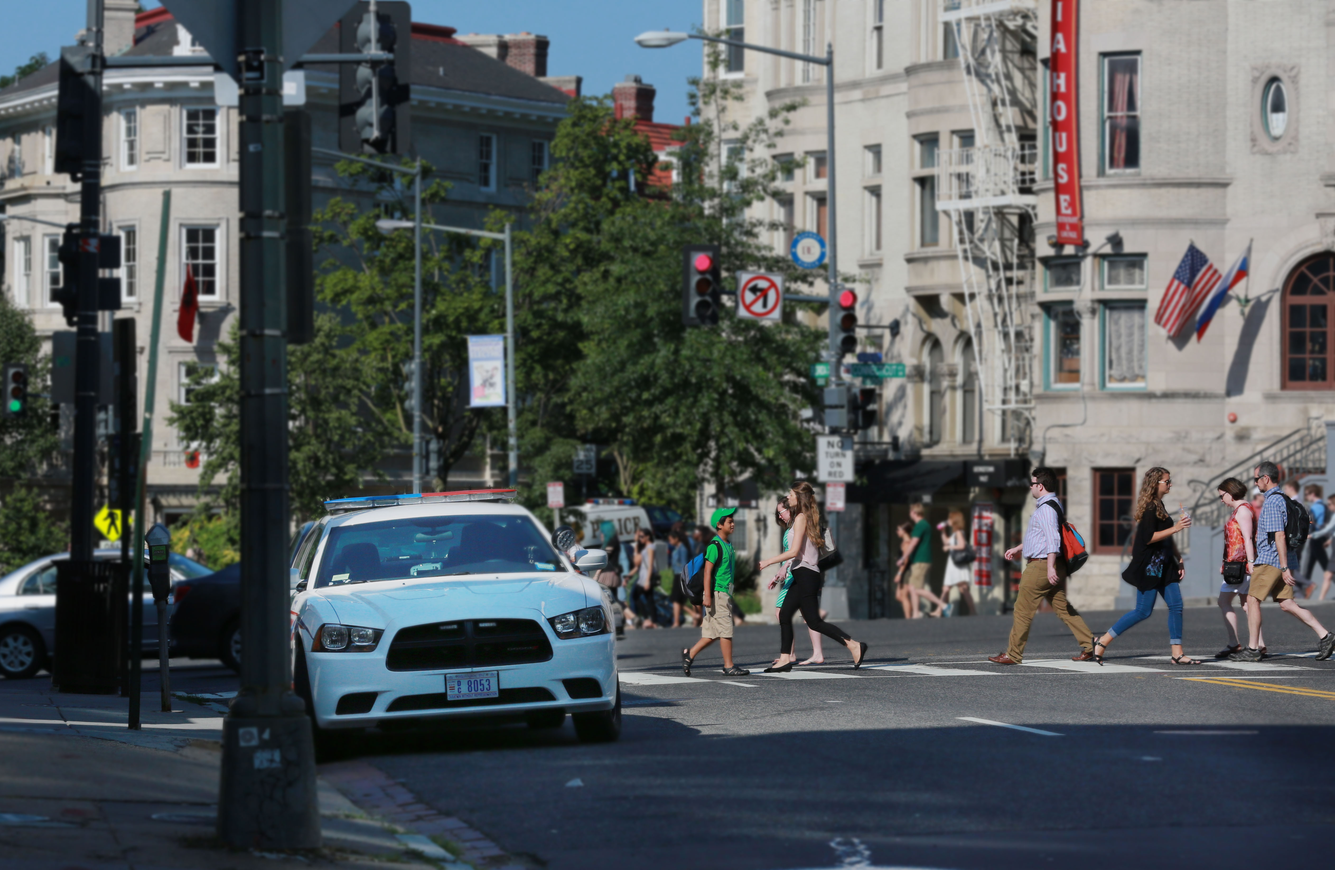
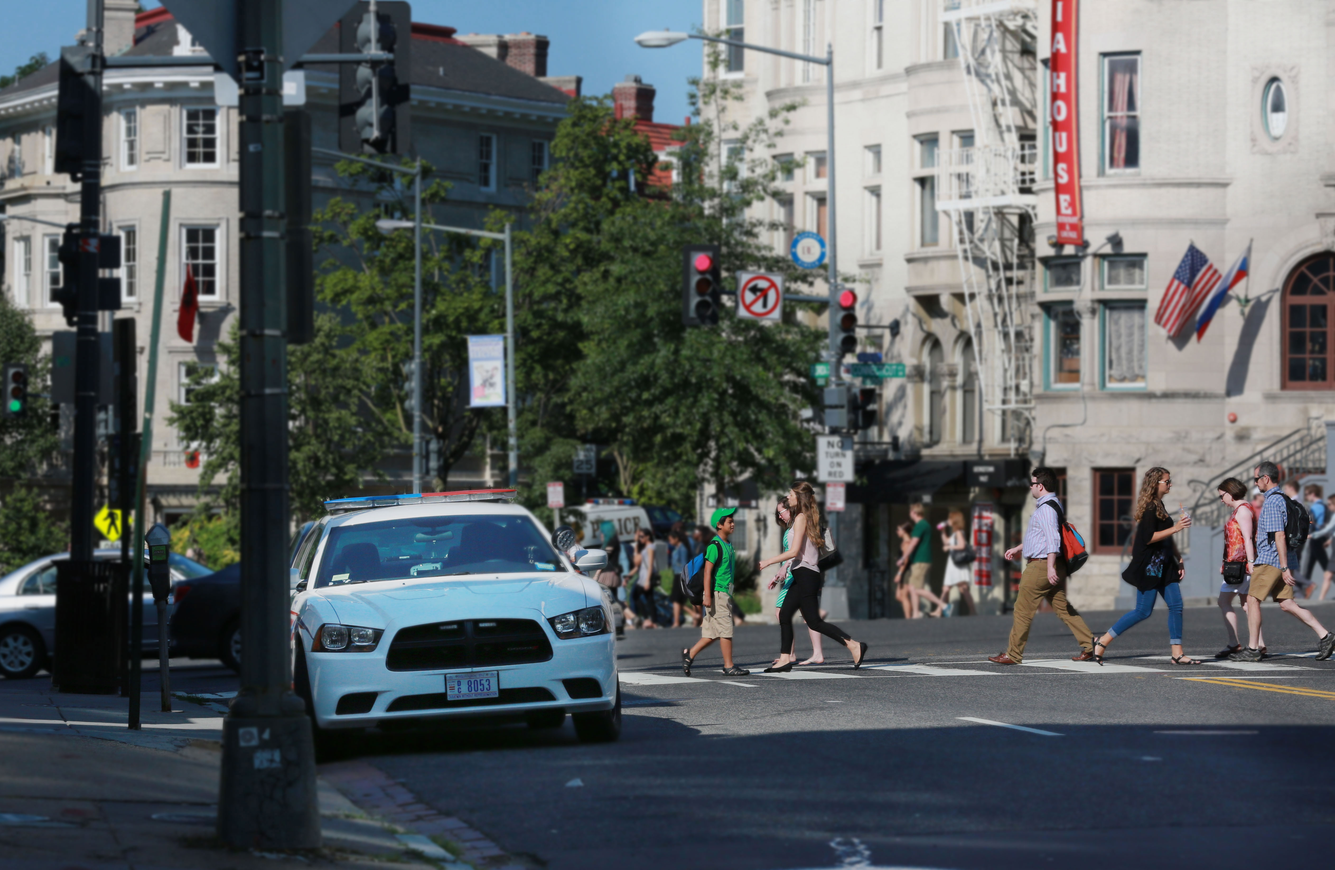
adjusted cover pics, update arrow jquery

Changed region(s): [[0.5592, 0.0, 1.0, 0.3125]]

diff --git a/index.html b/index.html
@@ -155,7 +155,9 @@
                             <h1>Public Safety</h1>
                             <p class="lead">Violent crime has fallen dramatically both nationwide and in DC over the past 20 years. DC’s homicide rate has plunged, taking the city far from its days as the nation’s “murder capital.” And, despite some ups and downs, aggravated assaults and robberies—two major categories of violent crime—are also on the decline.</p>
                             <p class="lead">However, these improvements have been uneven across the city. Stubborn pockets of violent crime remain unchanged in some neighborhoods, particularly in Northeast and Southeast DC. Tackling this persistent violent crime will require a more holistic public safety approach—one that goes beyond policing to include social services and that <a href="http://www.urban.org/research/publication/creating-partners-public-safety" target="_blank">emphasizes prevention</a> instead of reaction. </p>
-                            <a id="startbtn" data-target="#myCarousel" data-slide-to="1"><button type="button" class="btn btn-start">Start exploring</button></a>
+                            <a id="startbtn" data-target="#myCarousel" data-slide-to="1">
+                                <button type="button" class="btn btn-start">Start exploring</button>
+                            </a>
                         </div>
                     </div>
                 </div>
@@ -406,7 +408,7 @@
                                 <p class="credits">Research by Elizabeth Pelletier, Samuel Bieler, and Nancy La Vigne</br>Written by Samuel Bieler, Elizabeth Pelletier, and Serena Lei</br>Design and photography by Christina Baird</br>Web development by Hannah Recht</p>
                                 <p class="credits">Copyright © August 2015. Urban Institute.</p>
                                 <p class="credits">The views expressed are those of the authors and should not be attributed to the Urban Institute, its trustees, or its funders.</p>
-                                <p class="credits"><a href="https://github.com/UI-Research/occ-crime">View source on Github</a>
+                                <p class="credits"><a href="https://github.com/urbaninstitute/occ-public-safety">View source on Github</a>
                                 </p>
                             </div>
                         </div>
@@ -441,14 +443,17 @@
     <script src="lib/d3.min.js"></script>
 
     <script>
+        $('.left.carousel-control').hide();
         $('#myCarousel').on('slid.bs.carousel', function () {
             //resize for d3 responsive graphics - otherwise height/width are tiny
             var handler = window.onresize;
             handler();
             //hide arrows on first & last slides
-            $('.left.carousel-control').show();
             $('.right.carousel-control').show();
             var divID = d3.select("div.active").attr("id");
+            if (divID != "intro") {
+                $('.left.carousel-control').show();
+            }
             if (divID == "intro") {
                 $('.left.carousel-control').hide();
             }

diff --git a/css/newocc.css b/css/newocc.css
@@ -568,6 +568,9 @@ body {
     .col-sm-6 {
         padding: 0;
     }
+    .carousel .carousel-inner .bgCover {
+        background-image: url(../images/mobileThumb.jpg);
+    }
     .navbar {
         margin-bottom: 0px;
     }
@@ -673,9 +676,6 @@ body {
 }
 
 @media (max-width: 475px) {
-    .carousel .carousel-inner .bgCover {
-        background-image: url(../images/thumb.jpg);
-    }
     .navbar {
         height: 55px;
     }
